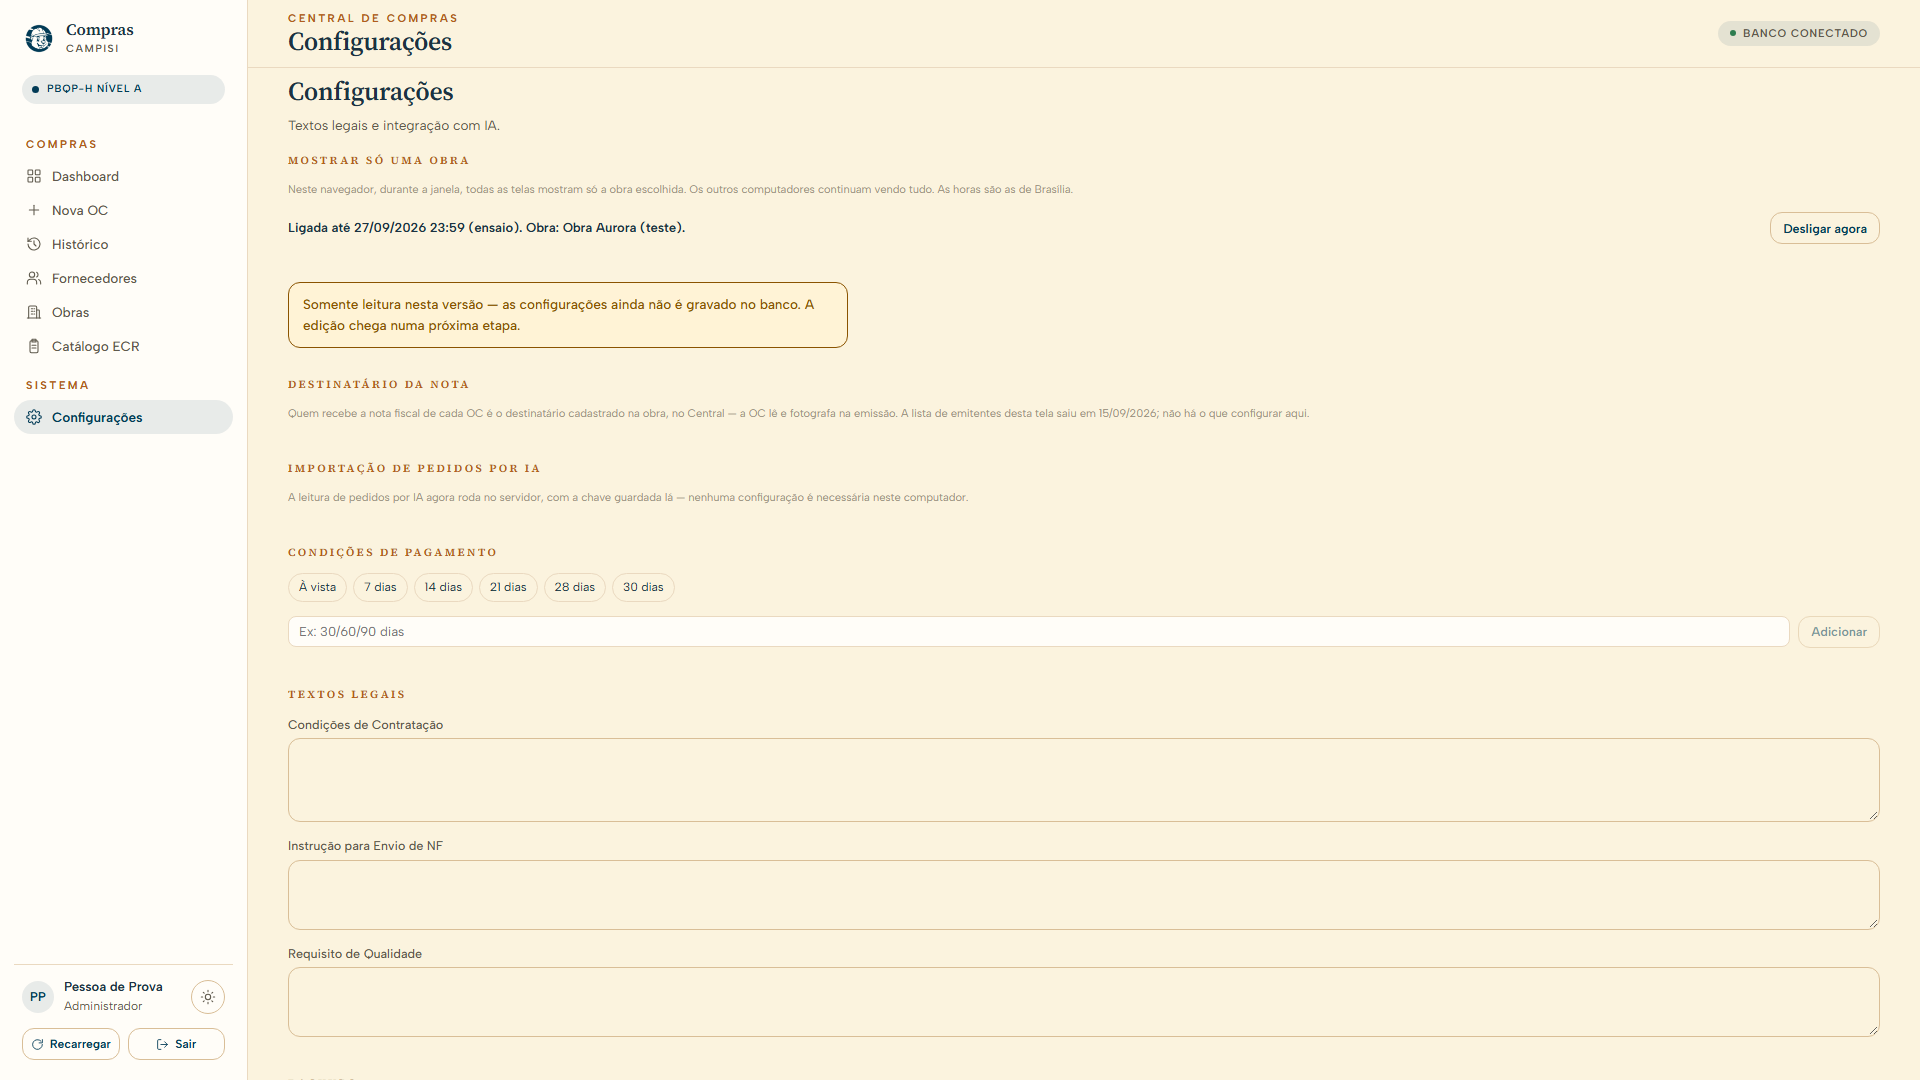
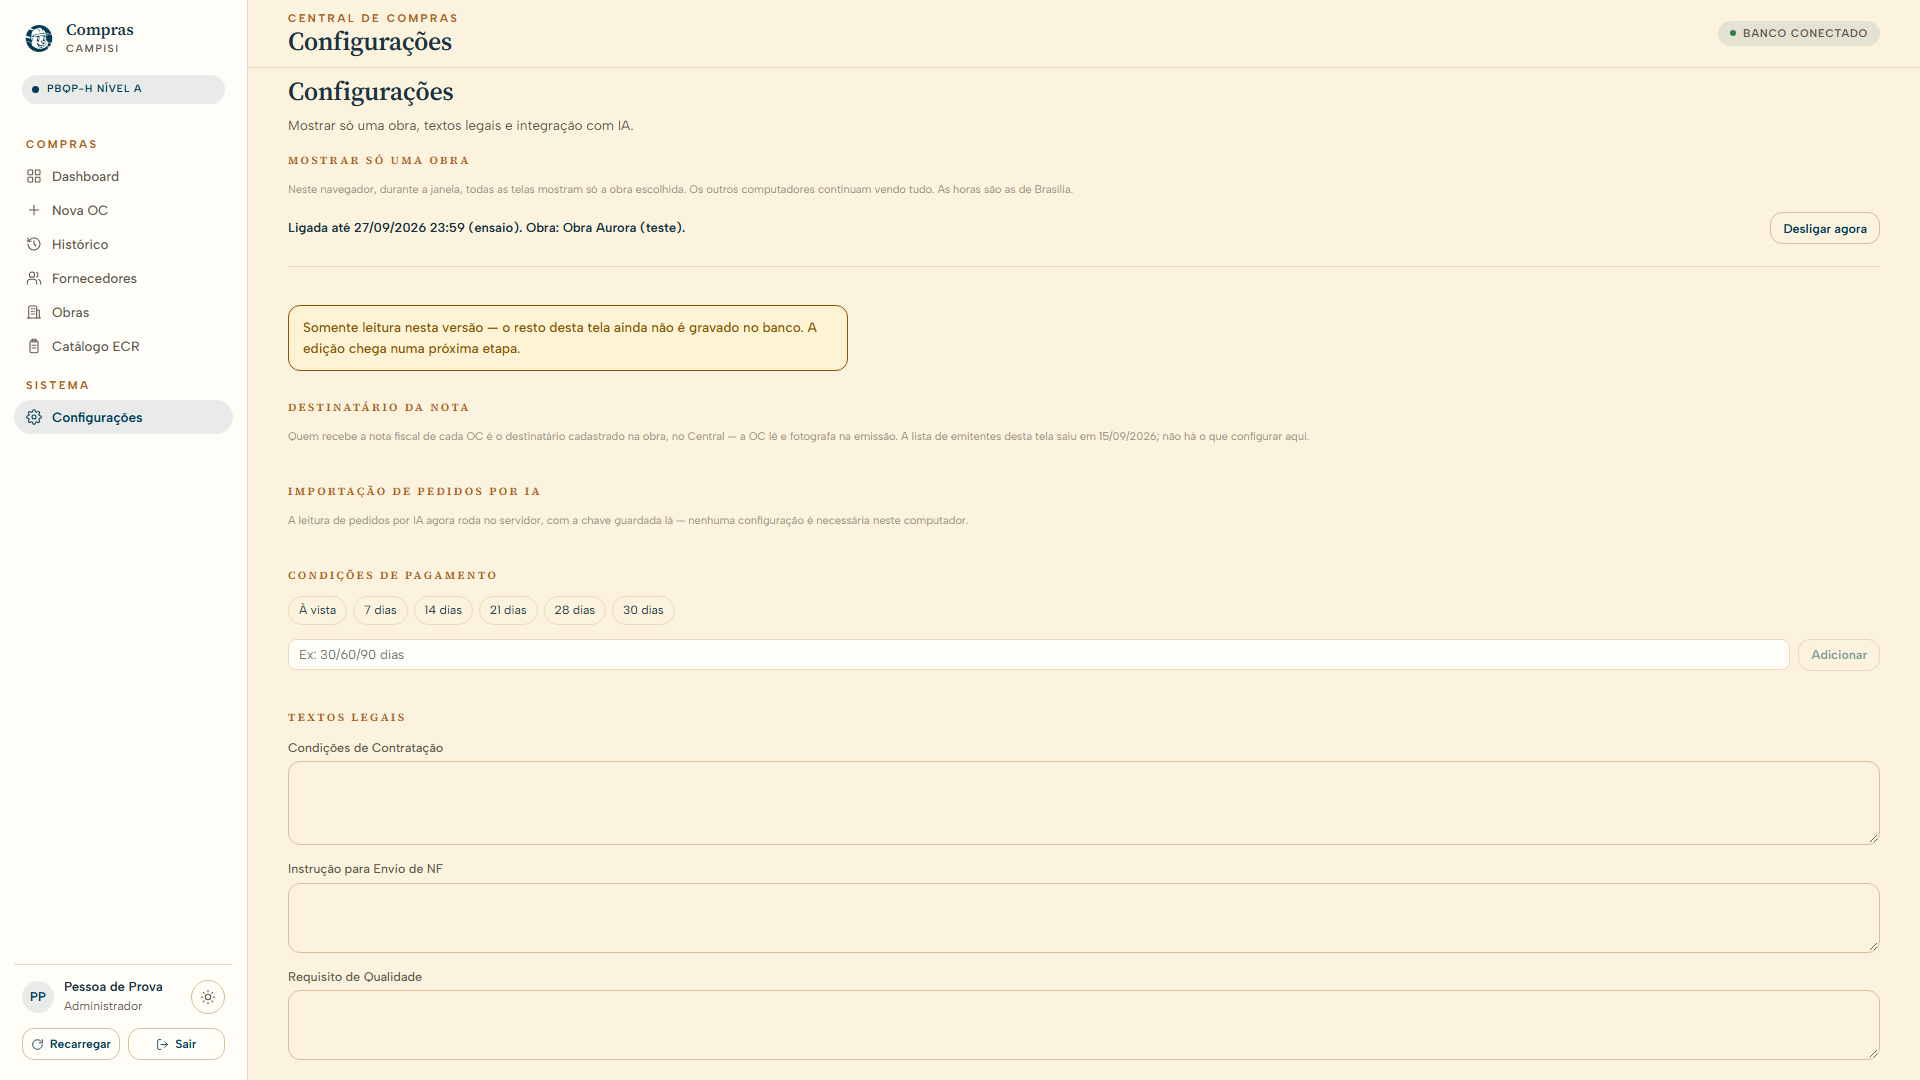
D601 (no ramo d599-uma-obra, NAO publicada): o aviso 'somente leitura' sai de baixo do Armar e fala do resto da tela; a opcao separada por uma linha; o subtitulo diz que a tela tem a opcao; fotos 01a, 01b e 01c refeitas

diff --git a/tests/components/UmaObra.test.tsx b/tests/components/UmaObra.test.tsx
@@ -225,6 +225,17 @@ describe('D599 §2 — a opção em Configurações', () => {
     expect(screen.queryByText('Mostrar só uma obra')).toBeNull();
   });
 
+  it('o aviso "somente leitura" fala do resto da tela, fora da opção, que grava (CTO-D601)', async () => {
+    await abrir();
+    await aba('config');
+    const opcao = (await screen.findByText('Mostrar só uma obra')).parentElement!;
+    const aviso = screen.getByText(/Somente leitura nesta versão/);
+    expect(aviso.textContent).toContain('o resto desta tela ainda não é gravado');
+    expect(opcao.contains(aviso)).toBe(false);
+    expect(opcao.compareDocumentPosition(aviso) & Node.DOCUMENT_POSITION_FOLLOWING).toBeTruthy();
+    expect(screen.getByText('Mostrar só uma obra, textos legais e integração com IA.')).toBeInTheDocument();
+  });
+
   it('armar: a obra, a janela já preenchida com a da auditoria; depois diz quando liga e desliga, e desarma', async () => {
     await abrir();
     await aba('config');

diff --git a/src/features/configuracoes/ConfigPage.tsx b/src/features/configuracoes/ConfigPage.tsx
@@ -31,14 +31,15 @@ export function ConfigPage() {
       <div className="section-header">
         <div>
           <h2>Configurações</h2>
-          <p className="section-sub">Textos legais e integração com IA.</p>
+          <p className="section-sub">Mostrar só uma obra, textos legais e integração com IA.</p>
         </div>
       </div>
 
       {/* Só para quem revisa as ECRs (CTO-D599); é a única coisa desta tela que se muda. */}
       <MostrarUmaObra obras={data.obras} />
 
-      <AvisoSomenteLeitura oQue="as configurações" />
+      {/* O aviso fala do resto, e não da opção de cima, que grava (CTO-D601). */}
+      <AvisoSomenteLeitura oQue="o resto desta tela" />
 
       {/* ── Destinatário da nota ───────────────────────────────────────────── */}
       <FieldGroup title="Destinatário da nota">

diff --git a/src/features/configuracoes/MostrarUmaObra.tsx b/src/features/configuracoes/MostrarUmaObra.tsx
@@ -73,8 +73,10 @@ export function MostrarUmaObra({ obras }: { obras: Obra[] }) {
   const ligada = !!armada && obraAtiva === armada.obraId;
   const ordenadas = [...obras].sort((a, b) => a.nome.localeCompare(b.nome, 'pt-BR'));
 
+  // Separada do resto da página (CTO-D601): o aviso "somente leitura" fala do
+  // resto, e esta opção grava.
   return (
-    <FieldGroup title="Mostrar só uma obra">
+    <FieldGroup title="Mostrar só uma obra" className={styles.opcaoSeparada}>
       <p className={styles.hint}>
         Neste navegador, durante a janela, todas as telas mostram só a obra escolhida. Os outros computadores continuam
         vendo tudo. As horas são as de Brasília.

diff --git a/src/features/configuracoes/ConfigPage.module.css b/src/features/configuracoes/ConfigPage.module.css
@@ -97,6 +97,12 @@
 
 /* ── Mostrar só uma obra (CTO-D599) ───────────────────────────────────────── */
 
+/* "Mostrar só uma obra" grava, e o resto da tela não: uma linha a separa (CTO-D601). */
+.opcaoSeparada {
+  padding-bottom: 22px;
+  margin-bottom: 22px;
+  border-bottom: 1px solid var(--borda);
+}
 .estadoDaMascara {
   flex: 1 1 240px;
   margin: 0;
